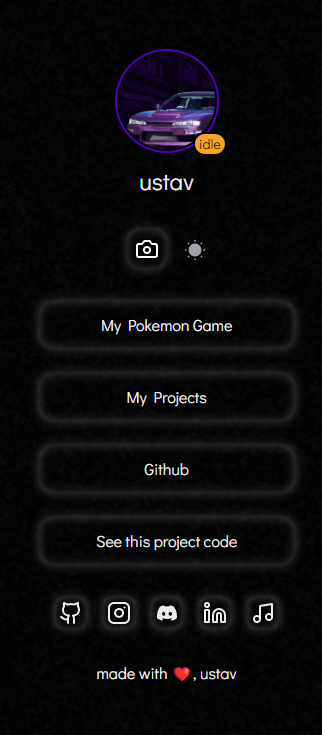
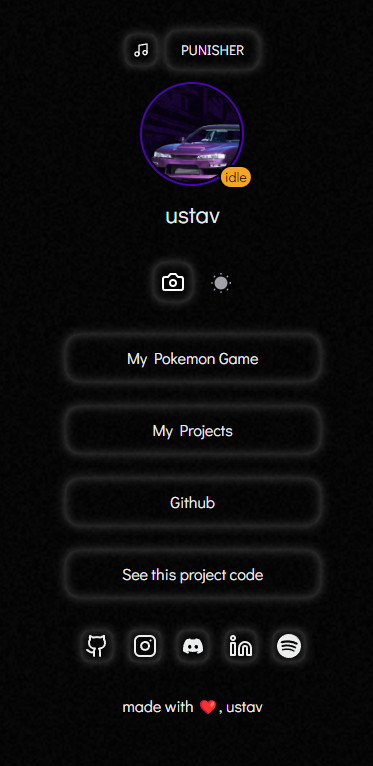
doc: update readme with new version of the app showcasing the new features

diff --git a/README.md b/README.md
@@ -9,8 +9,8 @@
 {
     "nickname": "ustav",
     "lanyard": {
-      "active": true, <  if you dont wish to use it, set to false
-      "discordId": "801073563368947742"
+      "active": true, /*  if you dont wish to use it, set to false */
+      "discordId": "801073563368947742"  /* you can leave this empty if you are not using */
     },
     "accentColor": "#4c02b5",
     "avatarImgSrc": "/assets/profile.png",
@@ -36,7 +36,8 @@
     "instagramLink": "https://www.instagram.com/luna.gustah/",
     "linkedInLink": "https://www.linkedin.com/in/gustavo-luna-6a33942aa/",
     "discordLink": "https://discord.com/users/801073563368947742",
-    "ytMusicLink": "https://music.youtube.com/channel/UCazPZA5I0goXo85P_LAJAkA?si=FoBmOLIaz_O-aBJd",
+    "ytMusicLink": "",  /* if you dont wish the button to appear, leave it blank */
+    "spotifyLink": "https://open.spotify.com/user/314j255v3f5u2yvilbdzywnsxps4",
     "footer": "made with ❤, ustav"
   }
   
@@ -45,3 +46,4 @@
 <img src="./public/assets/ss1.png" />
 <img src="./public/assets/ss2.png" />
 <img src="./public/assets/ss3.png" />
+<img src="./public/assets/ss4.png" />
